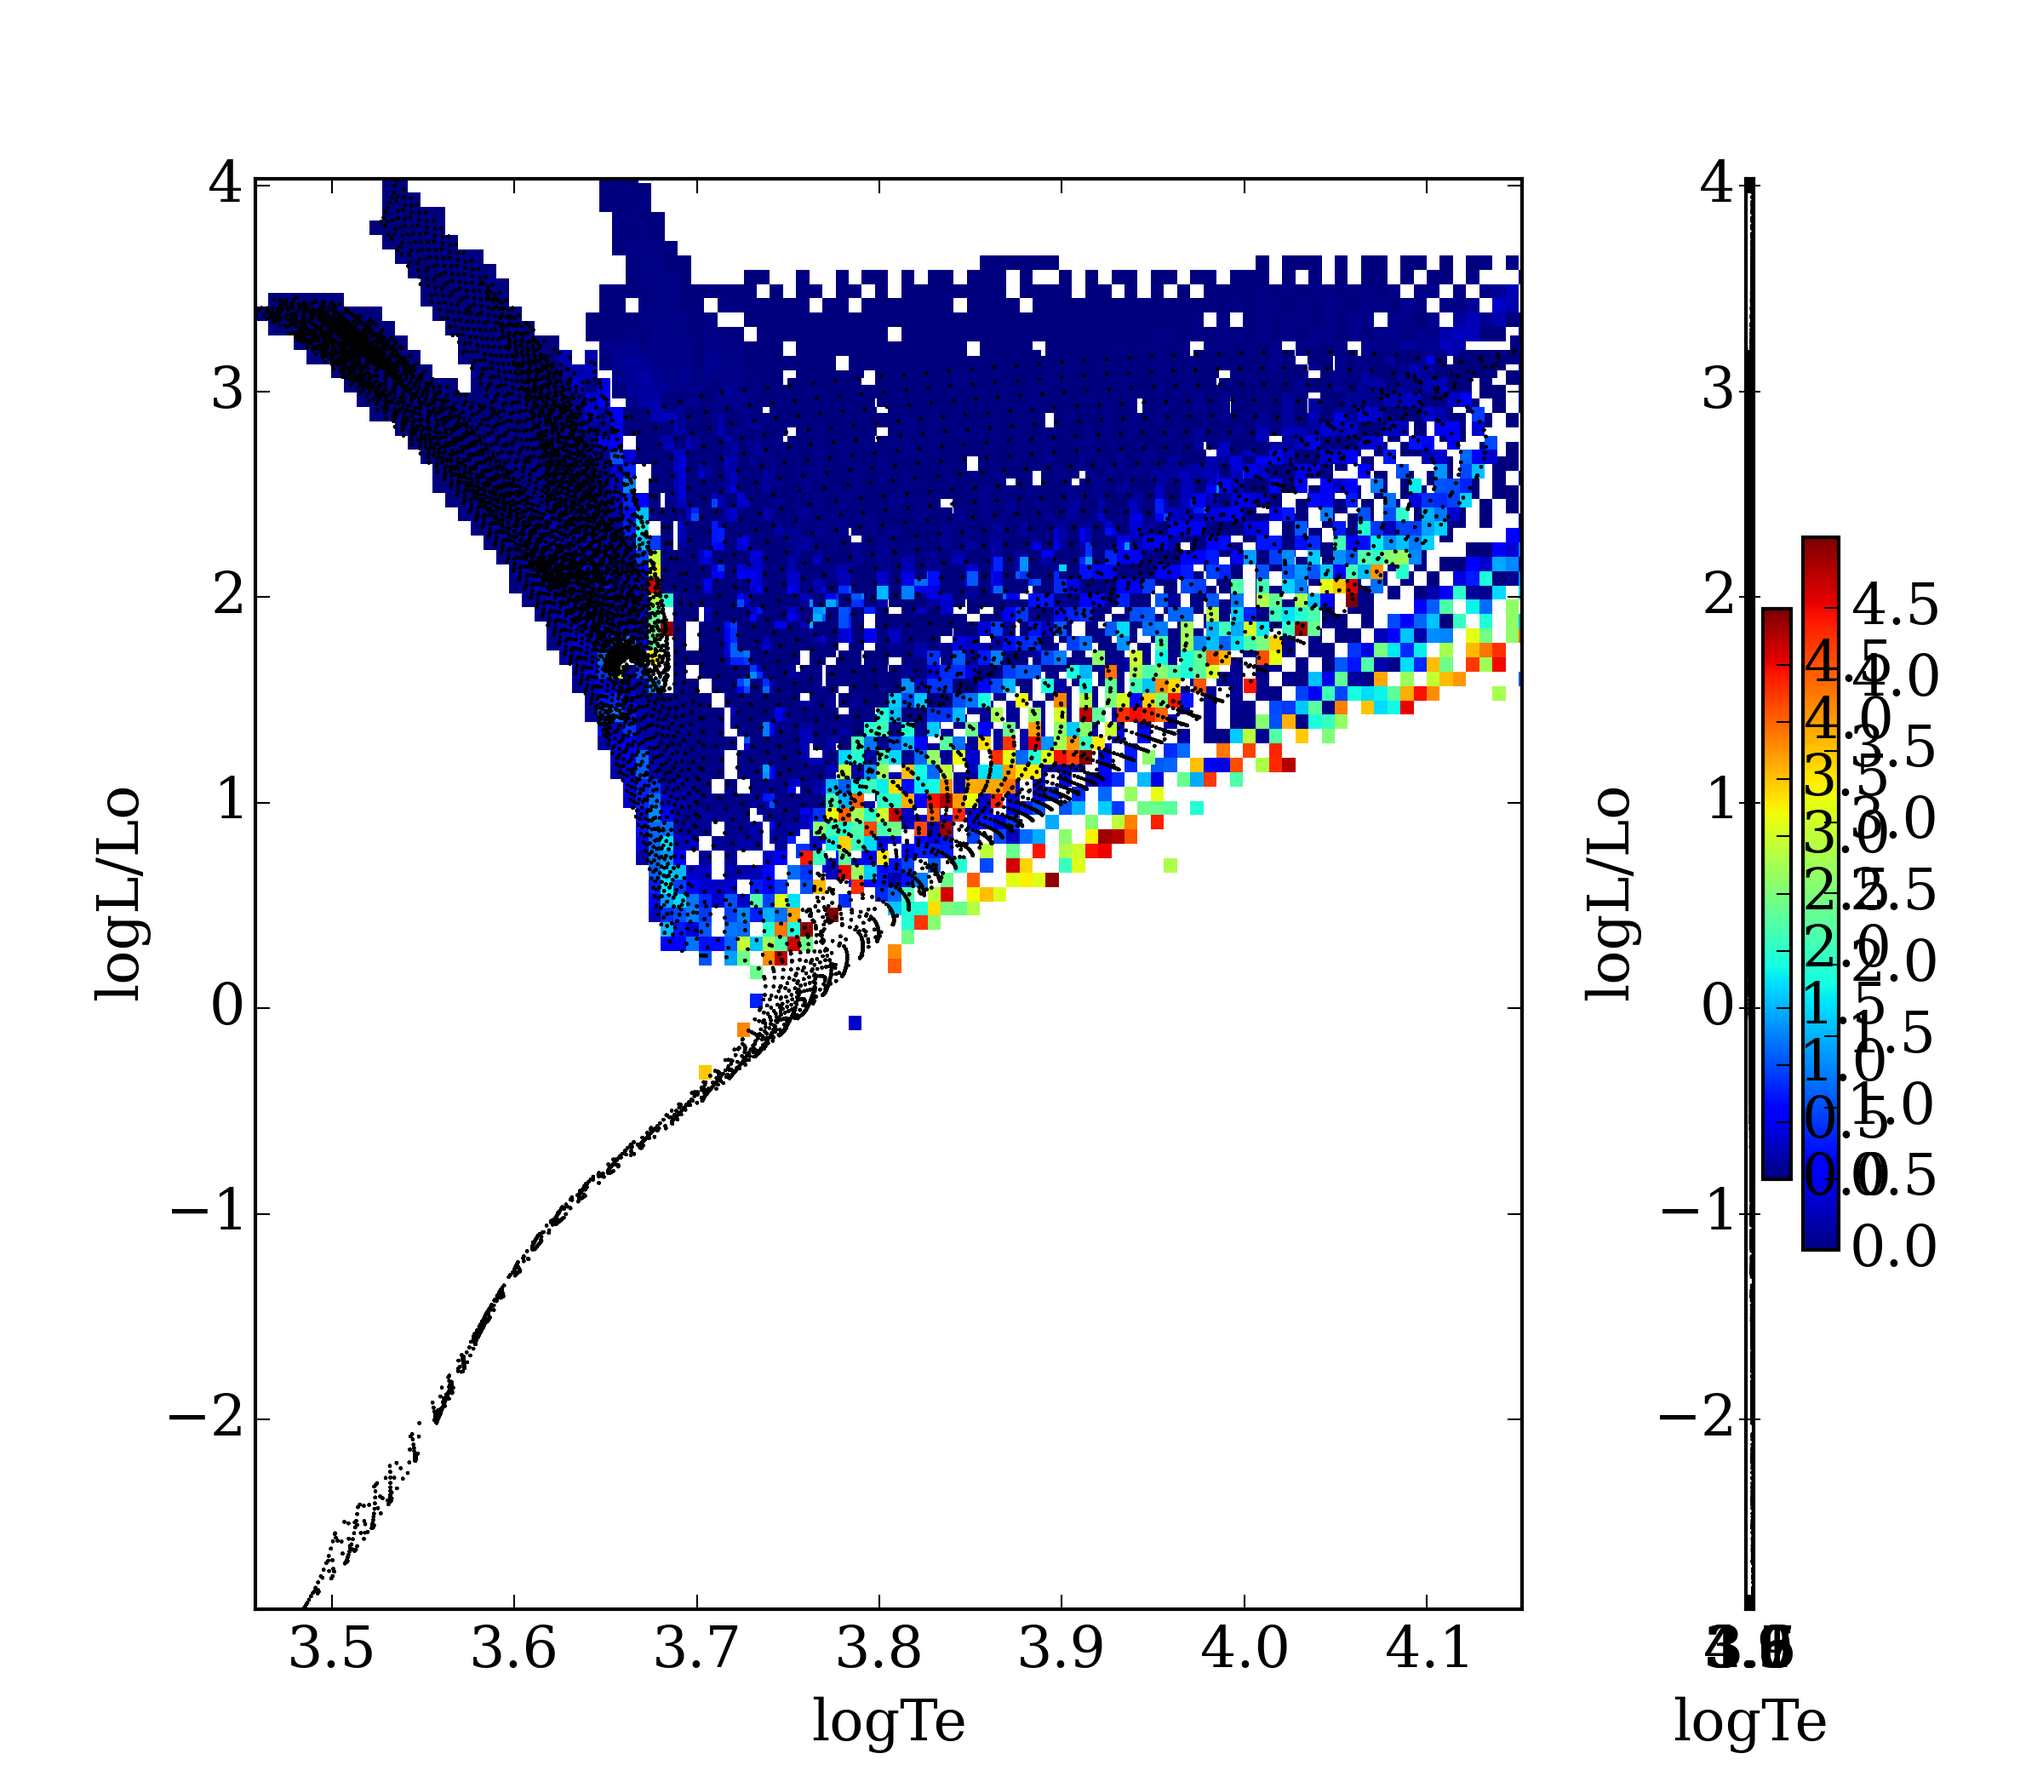
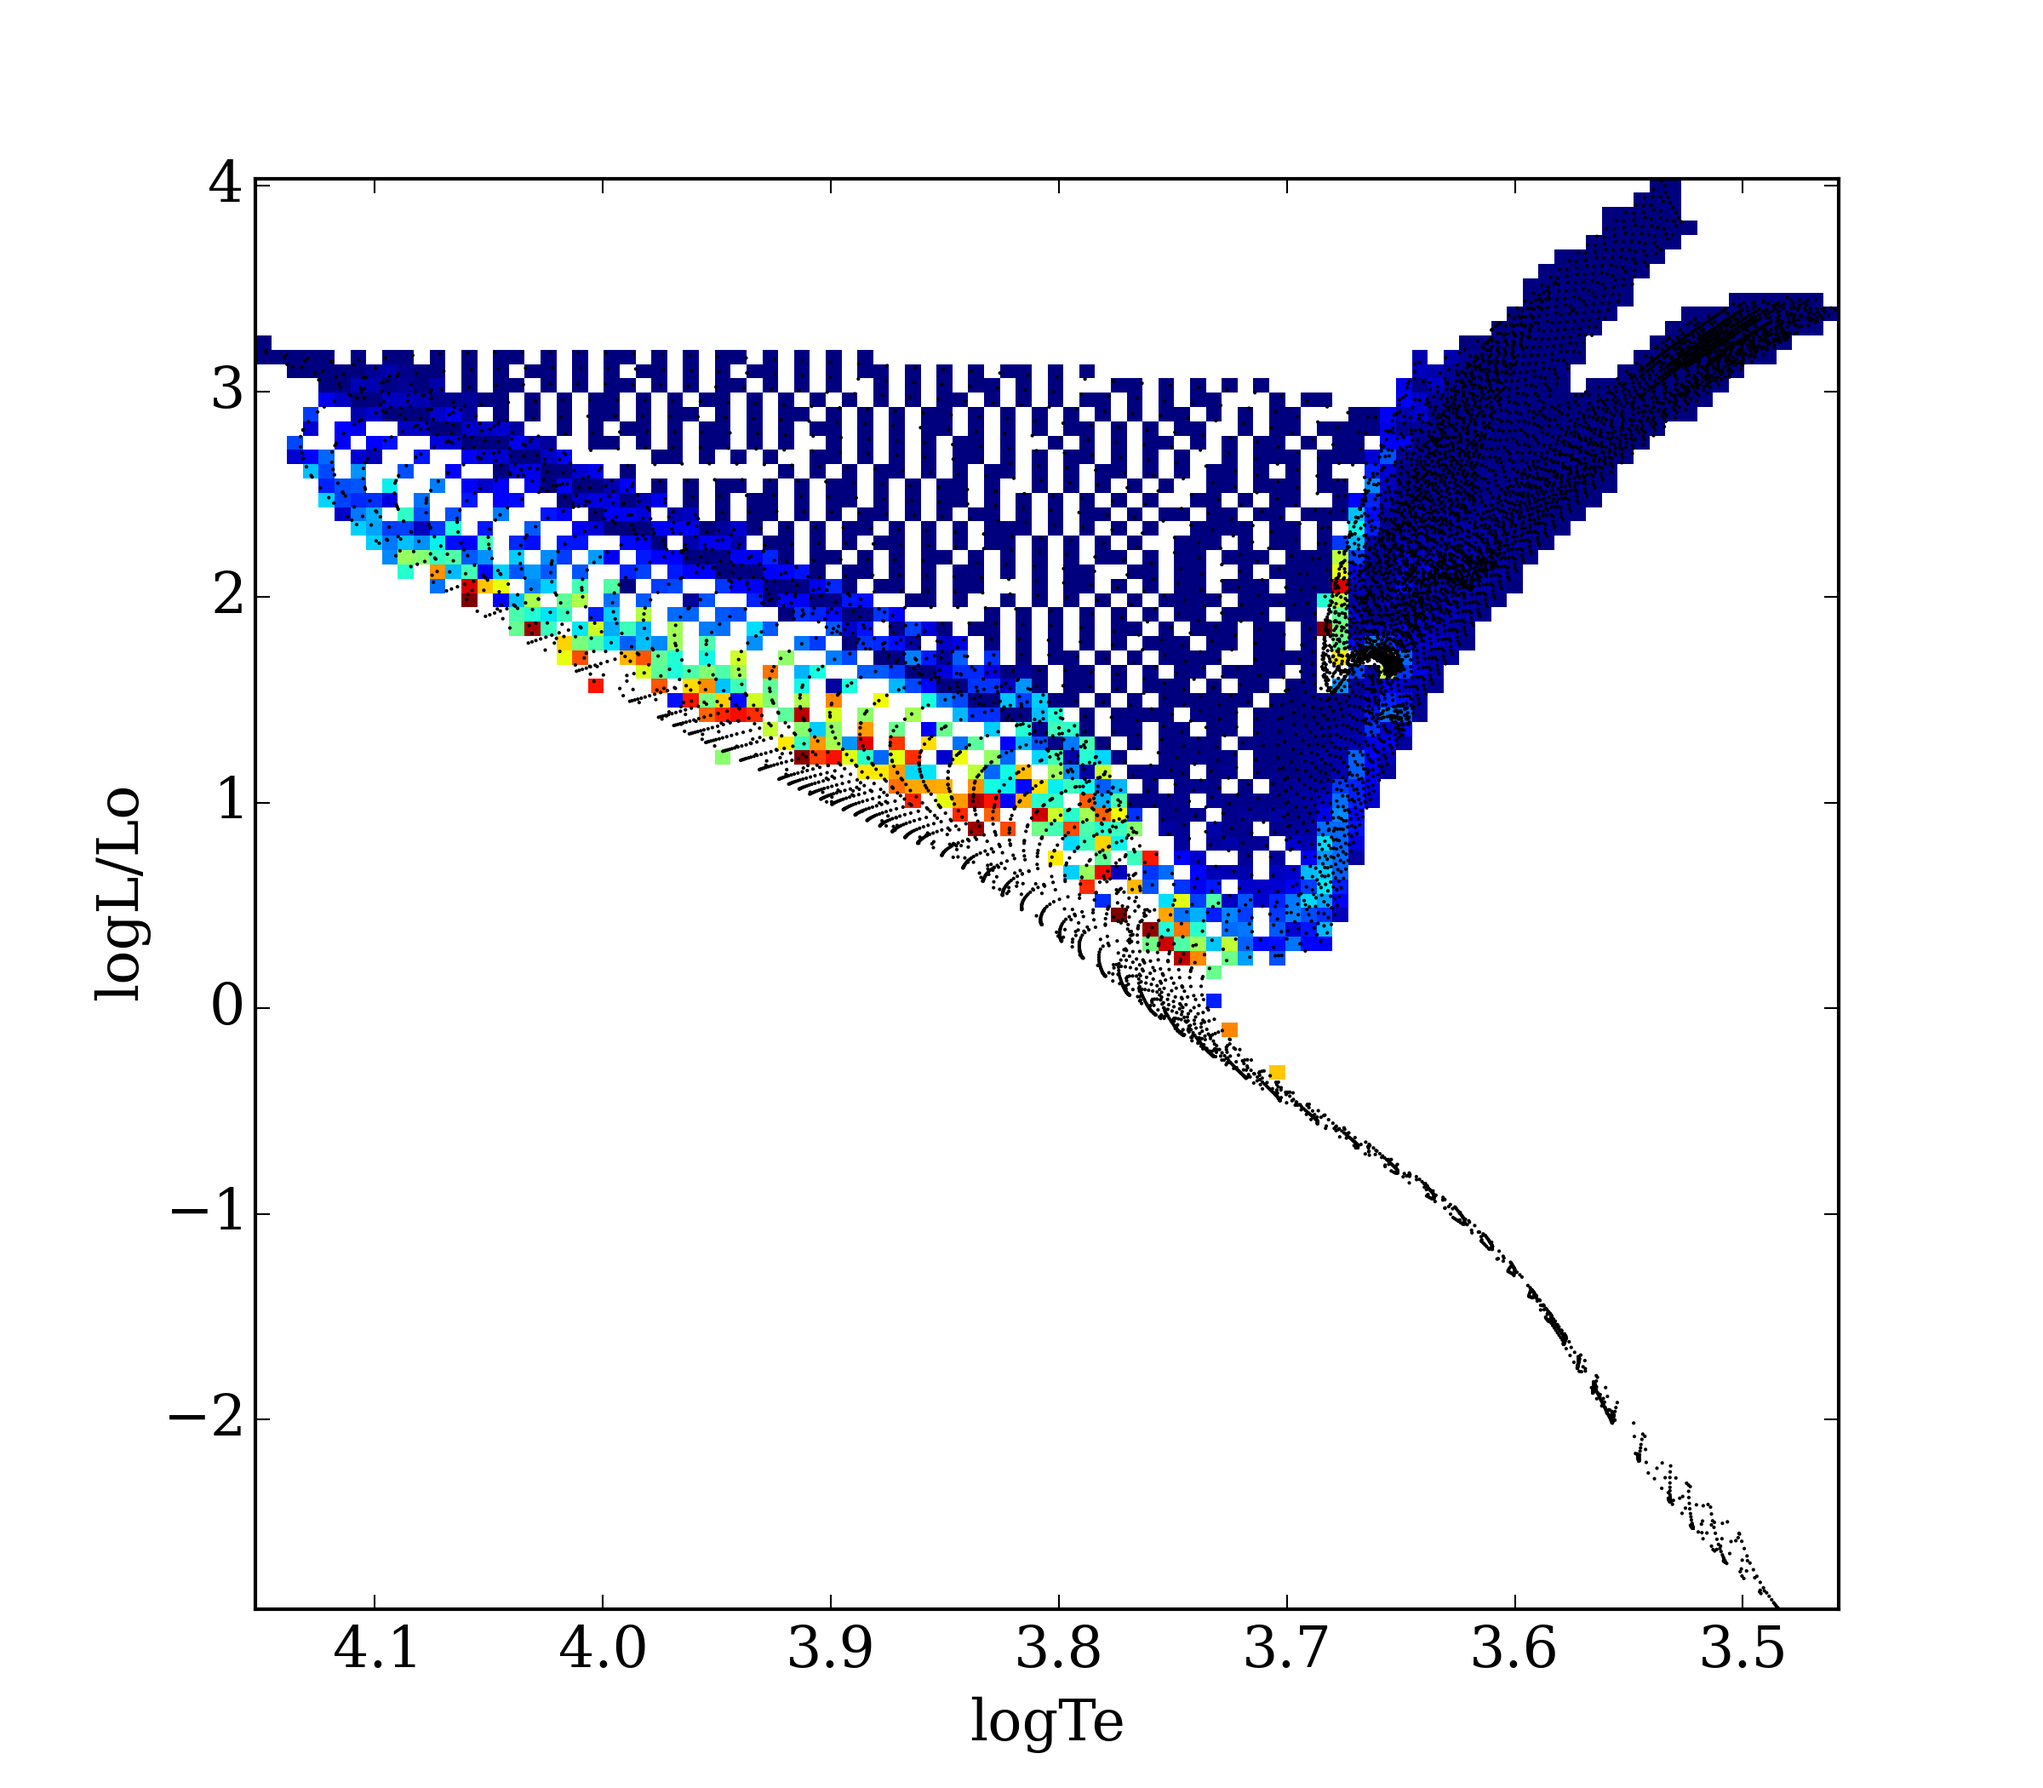
updating isochrone/q25

diff --git a/isochrone/isochrones.py b/isochrone/isochrones.py
@@ -157,21 +157,27 @@ def plot_hess(infile='zp00.dat',age=9.0,outfile=None,quantities=['logTe','logL/L
 
     ximage=np.floor((x-xxrange[0])/xbin).astype(int)
     yimage=np.floor((y-yrange[0])/ybin).astype(int)
+    bla=[ximage,yimage,[0.0]*len(ximage)]
     
+
     image=[]
     image.append([])
     image.append([])
-    image=np.zeros([len(ximage),len(yimage)])
+#    image=np.zeros([len(ximage),len(yimage)])
+    image=[]
 
-    for i in range(len(x)-1):
-        for j in range(nbins[0]):
-            nnx=ximage[i+1]-ximage[i]
+    for i in range(nbins[0]):
+        for j in range(nbins[1]):
+#            nnx=ximage[i+1]-ximage[i]
 #            print 'nnx=',nnx
-            for k in range(nbins[1]):
-                nny=yimage[i+1]-yimage[i]
-#                print 'nny=',nny
-                image[j,k]=(data['int_IMF'][i+1]-data['int_IMF'][i])*m_tot
-
+            incell=0
+            for k in range(len(x)-1):
+                if (min(x)+i*xbin) < x[k] < (min(x)+(i+1)*xbin):
+                    if (min(y)+j*ybin) < y[k] < (min(y)+(j+1)*ybin):
+                        incell=incell+1
+        if incell != 0:
+            bla[1][j]=((data['int_IMF'][i+1]-data['int_IMF'][i])*m_tot)
+            
     fig=plt.figure()
     ax1 = fig.add_subplot(1,1,1)
     spacing = 1.0
@@ -184,22 +190,78 @@ def plot_hess(infile='zp00.dat',age=9.0,outfile=None,quantities=['logTe','logL/L
 
     plt.show()
 
-#                image[j,k]=((data['int_IMF'][i+1]-data['int_IMF'][i])*m_tot)/(nnx*nny)
-#                image[1].append(((data['int_IMF'][i+1]-data['int_IMF'][i])*m_tot)/nny)
+    return bla,image,ximage,yimage
+
+def test_hess(infile='zp00.dat',age=9.0,outfile=None,quantities=['logTe','logL/Lo'],show=False,m_tot=50.0,nbins=[10]):
+    data=get_isochrone_struct(infile,age=age)
+    xdata=np.array(data[quantities[0]])
+    ydata=np.array(data[quantities[1]])
+    imf=np.array(data['int_IMF'])
+
+    temp=np.array([xdata,ydata,imf])
+    temp=temp.T
+    np.savetxt('hessdata.txt',temp,fmt='%.5f')
+
+#   allow for different # of bins in x and y directions
+    nbinsX=nbins[0]
+    if len(nbins)==2:
+        nbinsY=nbins[1]
+    else:
+        nbinsY=nbins[0]
+    xbinsize=abs(max(xdata)-min(xdata))/nbinsX
+    ybinsize=abs(max(ydata)-min(ydata))/nbinsY
+
+    print 'xbinsize/2.=',xbinsize/2.
+    print 'ybinsize/2.=',ybinsize/2.
+
+#    ximage=(xdata-min(xdata))/xbinsize
+#    yimage=(ydata-min(ydata))/ybinsize
+
+    xpos=[]
+    ypos=[]
+    im_imf=np.zeros(nbinsX*nbinsY)
+
+    for i in range(nbinsX):
+        for j in range(nbinsY):
+            xpos.append(min(xdata)+(xbinsize/2.)+(xbinsize*i))
+            ypos.append(min(ydata)+(ybinsize/2.)+(ybinsize*j))
+            tmp=[]
+            gd= (xpos[j]+xbinsize/2.) > xdata >= (xpos[j]-xbinsize/2.)
+            xtmp=xdata[gd]
+            ytmp=ydata[gd]
+            itmp=imf[gd]
+            gd= (ypos[j]+ybinsize/2.) > ytmp >= (ypos[j]-ybinsize/2.)
+            xtmp=xtmp[gd]
+            ytmp=ytmp[gd]
+            itmp=itmp[gd]
+
+            if len(itmp)!=0:
+                im_imf[j]=(max(itmp)-min(itmp))*m_tot
+
+ 
+#    xpos=np.array(xpos)
+#    ypos=np.array(ypos)
+#    im_imf=np.array(im_imf)
+#    hess=np.array([xpos,ypos,im_imf])
+#    hess=hess.T
+#    np.savetxt('testhess.txt',hess,fmt='%.5f')
+
+    fig=plt.figure()
+    ax1 = fig.add_subplot(1,1,1)
+    spacing = 1.0
+    minorLocator = MultipleLocator(spacing)
+#    ax1.plot(ximage,yimage)
+    ax1.scatter(xdata,ydata)
+    ax1.scatter(xpos,ypos,c=im_imf,marker='s',s=100,cmap='jet')
+    ax1.yaxis.set_minor_locator(minorLocator)
+    ax1.xaxis.set_minor_locator(minorLocator)
+    ax1.grid(which = 'minor')
+
+    plt.show()
+
+    return im_imf,xpos,ypos
 
 
-
-#                p=data['int_IMF'][i]-data['int_IMF'][i-1]*m_tot
-#                image[j,k]= [p/nnx,p/nny]
-
-    imf=[]
-    for i in range(len(x)-1):
-        if i==0:
-            imf.append(0.0)
-        else:
-            imf.append((data['int_IMF'][i+1]-data['int_IMF'][i])*m_tot)
-
-    return imf,image,ximage,yimage
 
 """
     fig=plt.figure(1,figsize=(8, 7))
